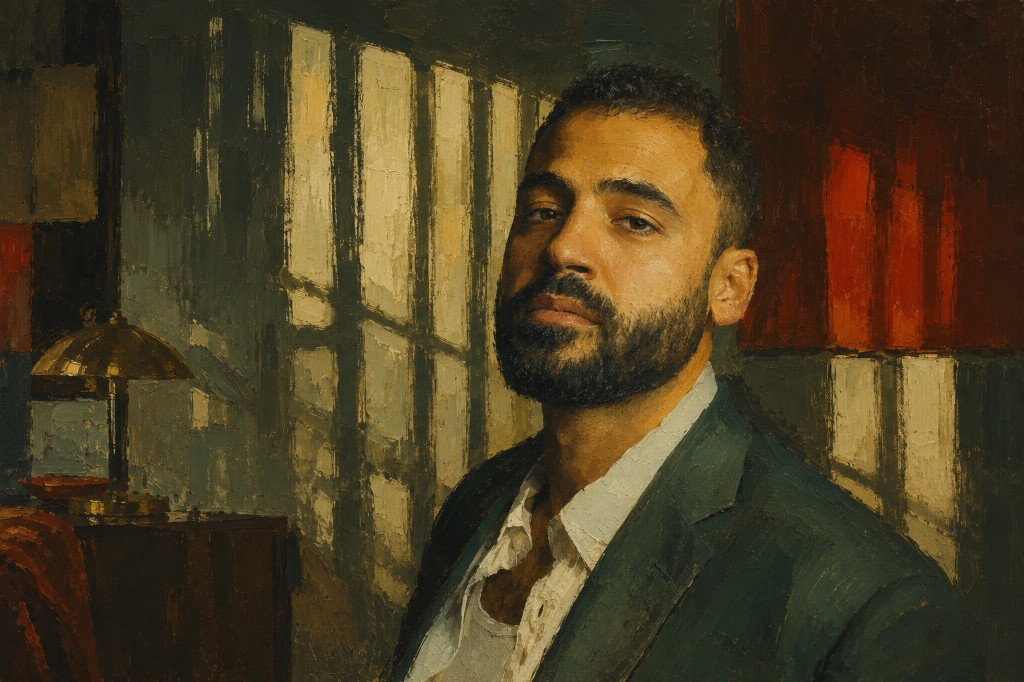
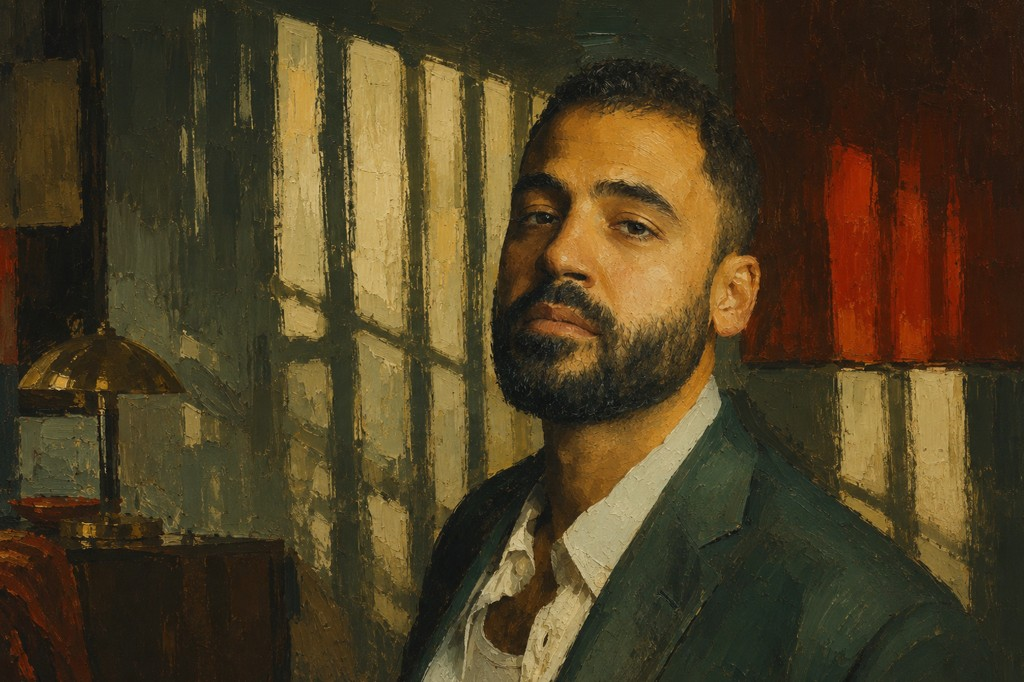
Polish mobile type, nav, and a lighter phone film grade.
Keeps desktop atmosphere while cutting iOS haze, and cleans up mobile chrome sizing and layout.

diff --git a/components/site/site-shell.tsx b/components/site/site-shell.tsx
@@ -101,7 +101,7 @@ export function SiteShell({ content }: { content: SiteContent }) {
           <button
             type="button"
             onClick={close}
-            className="text-ink hover:text-canvas block text-left text-[1.28rem] font-bold tracking-[0.4em] transition-colors duration-500"
+            className="text-ink hover:text-canvas block text-left text-[1.45rem] font-bold tracking-[0.4em] transition-colors duration-500"
           >
             {content.brand.name}
           </button>
@@ -131,12 +131,12 @@ export function SiteShell({ content }: { content: SiteContent }) {
                     className="pointer-events-auto group inline-flex items-center justify-start gap-2.5 text-[0.88rem] tracking-[0.24em] transition-colors duration-500"
                   >
                     <span className="whitespace-nowrap">
-                      <span className={isActive ? "text-canvas font-bold" : "text-canvas/75"}>
+                      <span className={isActive ? "text-ember font-bold" : "text-canvas/75"}>
                         {section.number}
                       </span>{" "}
                       <span
                         className={
-                          isActive ? "text-ink font-semibold" : "text-ink/75 group-hover:text-ink"
+                          isActive ? "text-ember font-semibold" : "text-ink/75 group-hover:text-ink"
                         }
                       >
                         {section.label}
@@ -144,7 +144,7 @@ export function SiteShell({ content }: { content: SiteContent }) {
                     </span>
                     <span
                       aria-hidden
-                      className={`bg-canvas h-px transition-all duration-700 ease-out ${
+                      className={`bg-ember h-px transition-all duration-700 ease-out ${
                         isActive ? "w-5 opacity-90" : "w-0 opacity-0 group-hover:w-3.5 group-hover:opacity-70"
                       }`}
                     />
@@ -180,7 +180,7 @@ export function SiteShell({ content }: { content: SiteContent }) {
           )}
           {content.hero.attribution && (
             <p
-              className={`text-ember text-[0.74rem] tracking-[0.3em] ${
+              className={`text-ember text-[0.88rem] tracking-[0.3em] ${
                 content.hero.quote.trim() ? "mt-3" : ""
               }`}
             >
@@ -210,14 +210,14 @@ export function SiteShell({ content }: { content: SiteContent }) {
             <div className="mb-8 flex items-start gap-8">
               {rendered.portrait && (
                 <figure
-                  className={`pointer-events-none absolute top-24 left-0 z-10 w-[17.5rem] -translate-x-[calc(100%+0.35rem)] overflow-hidden rounded-md shadow-[0_24px_60px_rgba(0,0,0,0.55)] ${rise}`}
+                  className={`pointer-events-none absolute top-24 left-0 z-10 w-[17.5rem] -translate-x-[calc(100%+0.35rem)] overflow-hidden rounded-3xl ${rise}`}
                   style={hydrated ? { animationDelay: "160ms" } : undefined}
                 >
                   {/* eslint-disable-next-line @next/next/no-img-element */}
                   <img
                     src={rendered.portrait}
                     alt=""
-                    className="aspect-[3/4] h-auto w-full object-cover object-[62%_16%]"
+                    className="aspect-[3/4] h-auto w-full object-cover object-[62%_16%] contrast-[0.97] saturate-[0.97]"
                   />
                 </figure>
               )}
@@ -280,40 +280,43 @@ export function SiteShell({ content }: { content: SiteContent }) {
           <button
             type="button"
             onClick={close}
-            className="text-ink block text-left text-[1.05rem] font-bold tracking-[0.32em]"
+            className="text-ink block text-left text-[1.45rem] font-bold tracking-[0.28em]"
           >
             {content.brand.name}
           </button>
-          <p className="text-ember/90 mt-1.5 text-[0.8rem] tracking-[0.24em]">{content.brand.role}</p>
+          <p className="text-ember/90 mt-1.5 text-[0.95rem] tracking-[0.22em]">{content.brand.role}</p>
         </header>
       </div>
 
+      {/* Quote locked into the right silhouette band on the mirrored plate. */}
       <div
         aria-hidden={isOpen}
-        className="pointer-events-none fixed inset-x-0 z-20 px-5 md:hidden"
+        className="plate-type pointer-events-none fixed z-20 max-w-[11.5rem] text-right md:hidden"
         style={{
-          bottom: "calc(5.75rem + env(safe-area-inset-bottom))",
+          top: "42%",
+          right: "0.9rem",
+          left: "auto",
           opacity: isOpen ? 0 : 1,
           transform: isOpen ? "translate3d(0, 12px, 0)" : "none",
           transition: "opacity 500ms ease, transform 600ms cubic-bezier(0.22, 1, 0.36, 1)",
         }}
       >
-        <div className={`plate-type max-w-[28ch] ${rise}`} style={hydrated ? { animationDelay: "400ms" } : undefined}>
+        <div className={rise} style={hydrated ? { animationDelay: "400ms" } : undefined}>
           {content.hero.quote
             .split("\n")
             .map((line) => line.trim())
             .filter(Boolean)
             .map((line, index) => (
-              <p key={index} className="text-ink text-[0.95rem] leading-[1.65] tracking-[0.03em]">
+              <p key={index} className="text-ink text-[0.9rem] leading-[1.55] tracking-[0.03em]">
                 {line}
               </p>
             ))}
           {content.hero.quote.trim() && (
-            <span aria-hidden className="bg-canvas/70 mt-3 block h-px w-5" />
+            <span aria-hidden className="bg-canvas/70 mt-3 ml-auto block h-px w-5" />
           )}
           {content.hero.attribution && (
             <p
-              className={`text-ember text-[0.68rem] tracking-[0.28em] ${
+              className={`text-ember -translate-x-2.5 text-[0.82rem] tracking-[0.28em] ${
                 content.hero.quote.trim() ? "mt-2.5" : ""
               }`}
             >
@@ -323,31 +326,29 @@ export function SiteShell({ content }: { content: SiteContent }) {
         </div>
       </div>
 
+      {/* Stays visible over the section sheet so you can switch pages. */}
       <nav
-        className="pointer-events-none fixed inset-x-0 bottom-0 z-40 md:hidden"
+        className="pointer-events-none fixed inset-x-0 bottom-0 z-[80] md:hidden"
         style={{
-          paddingBottom: "max(0.75rem, env(safe-area-inset-bottom))",
-          opacity: isOpen ? 0 : 1,
-          transition: "opacity 400ms ease",
-          pointerEvents: isOpen ? "none" : "auto",
+          paddingBottom: "max(0.65rem, env(safe-area-inset-bottom))",
         }}
       >
-        <div className="from-void/90 via-void/55 pointer-events-none absolute inset-0 bg-gradient-to-t to-transparent" />
-        <ul className="relative flex items-stretch justify-between gap-1 px-3 pt-3">
+        <div className="from-void via-void/80 pointer-events-none absolute inset-0 bg-gradient-to-t to-transparent" />
+        <ul className="relative flex h-14 items-center justify-between px-2">
           {sections.map((section, index) => {
             const isActive = section.id === activeId;
             return (
-              <li key={section.id} className={`min-w-0 flex-1 ${rise}`} style={hydrated ? { animationDelay: `${280 + index * 80}ms` } : undefined}>
+              <li key={section.id} className={`flex h-full min-w-0 flex-1 ${rise}`} style={hydrated ? { animationDelay: `${280 + index * 80}ms` } : undefined}>
                 <button
                   type="button"
-                  onClick={() => open(section.id)}
+                  onClick={() => (isActive ? close() : open(section.id))}
                   aria-current={isActive ? "true" : undefined}
-                  className="pointer-events-auto flex min-h-11 w-full flex-col items-center justify-center gap-0.5 px-1 py-2 tracking-[0.18em]"
+                  className="pointer-events-auto flex h-full w-full flex-col items-center justify-center gap-1 px-1 tracking-[0.16em]"
                 >
-                  <span className={`text-[0.65rem] font-bold ${isActive ? "text-canvas" : "text-canvas/80"}`}>
+                  <span className={`text-[0.95rem] leading-none font-bold ${isActive ? "text-ember" : "text-canvas/85"}`}>
                     {section.number}
                   </span>
-                  <span className={`text-[0.72rem] font-semibold ${isActive ? "text-ink" : "text-ink/80"}`}>
+                  <span className={`text-[1.02rem] leading-none font-semibold ${isActive ? "text-ember" : "text-ink/85"}`}>
                     {section.label}
                   </span>
                 </button>
@@ -357,10 +358,10 @@ export function SiteShell({ content }: { content: SiteContent }) {
         </ul>
       </nav>
 
-      {/* Mobile section sheet — full bleed, slides up. */}
+      {/* Mobile section sheet — full bleed, slides up; leaves room for bottom nav. */}
       <section
         aria-hidden={!isOpen}
-        className="fixed inset-0 z-50 flex flex-col md:hidden"
+        className="fixed inset-0 z-[70] flex flex-col md:hidden"
         style={{
           opacity: isOpen ? 1 : 0,
           pointerEvents: isOpen ? "auto" : "none",
@@ -373,7 +374,10 @@ export function SiteShell({ content }: { content: SiteContent }) {
         {rendered && (
           <article
             key={`mob-${rendered.id}`}
-            className="relative flex min-h-0 flex-1 flex-col px-5 pt-[max(1rem,env(safe-area-inset-top))] pb-[max(1rem,env(safe-area-inset-bottom))]"
+            className="relative flex min-h-0 flex-1 flex-col px-5 pt-[max(1rem,env(safe-area-inset-top))]"
+            style={{
+              paddingBottom: "calc(5.25rem + env(safe-area-inset-bottom))",
+            }}
           >
             <header className="flex shrink-0 items-start justify-between gap-4 pb-4">
               <div>
@@ -386,24 +390,24 @@ export function SiteShell({ content }: { content: SiteContent }) {
               <button
                 type="button"
                 onClick={close}
-                className="text-ink-dim hover:text-ink -mr-1 min-h-11 min-w-11 px-2 text-[0.7rem] tracking-[0.22em]"
+                className="text-ink-dim hover:text-ink -mr-1 min-h-11 min-w-11 px-2 text-[0.95rem] tracking-[0.2em]"
               >
                 close
               </button>
             </header>
 
             <div className={`scroll-quiet ${rise} min-h-0 flex-1 overflow-x-hidden overflow-y-auto pb-6`}>
+              <ScriptBody text={rendered.script} />
               {rendered.portrait && (
-                <figure className="mb-6 w-[9.5rem] overflow-hidden rounded-md shadow-[0_16px_40px_rgba(0,0,0,0.45)]">
+                <figure className="mt-8 w-full max-w-[48ch] overflow-hidden rounded-3xl">
                   {/* eslint-disable-next-line @next/next/no-img-element */}
                   <img
                     src={rendered.portrait}
                     alt=""
-                    className="aspect-[3/4] h-auto w-full object-cover object-[62%_16%]"
+                    className="aspect-[16/10] h-auto w-full object-cover object-center contrast-[0.97] saturate-[0.97]"
                   />
                 </figure>
               )}
-              <ScriptBody text={rendered.script} />
             </div>
           </article>
         )}

diff --git a/components/grade/film-grade.tsx b/components/grade/film-grade.tsx
@@ -28,8 +28,22 @@ function useGrade() {
   return useSyncExternalStore(subscribeGrade, getGrade, getGrade);
 }
 
+/** Phones can't take the desktop bloom/softness stack — it turns type to mush. */
+function useIsMobileViewport() {
+  const [mobile, setMobile] = useState(false);
+  useEffect(() => {
+    const mq = window.matchMedia("(max-width: 767px)");
+    const sync = () => setMobile(mq.matches);
+    sync();
+    mq.addEventListener("change", sync);
+    return () => mq.removeEventListener("change", sync);
+  }, []);
+  return mobile;
+}
+
 export function FilmGrade({ children }: FilmGradeProps) {
   const grade = useGrade();
+  const isMobile = useIsMobileViewport();
   const reactId = useId().replace(/:/g, "");
   const filterId = `film-grade-${reactId}`;
   const [booted, setBooted] = useState(false);
@@ -39,22 +53,36 @@ export function FilmGrade({ children }: FilmGradeProps) {
     setBooted(true);
   }, []);
 
+  // Desktop look unchanged. Real phones (esp. iOS WebKit) amplify the same
+  // softness + backdrop bloom into heavy milk vs laptop Chrome — keep both,
+  // but much lighter so type and plate stay readable.
+  const look = useMemo<GradeSettings>(() => {
+    if (!isMobile) return grade;
+    return {
+      ...grade,
+      softness: grade.softness * 0.35,
+      bloom: grade.bloom * 0.22,
+      bloomRadius: Math.max(2, grade.bloomRadius * 0.22),
+      chromaticAberration: grade.chromaticAberration * 0.6,
+    };
+  }, [grade, isMobile]);
+
   const baseCurve = useMemo(
-    () => curveTable(grade.shadow, grade.midtone, grade.highlight),
-    [grade.shadow, grade.midtone, grade.highlight],
+    () => curveTable(look.shadow, look.midtone, look.highlight),
+    [look.shadow, look.midtone, look.highlight],
   );
 
   const curves = useMemo(() => {
-    const strength = grade.lutStrength;
+    const strength = look.lutStrength;
     return {
-      r: mixCurves(baseCurve, grade.lutCurves?.r, strength),
-      g: mixCurves(baseCurve, grade.lutCurves?.g, strength),
-      b: mixCurves(baseCurve, grade.lutCurves?.b, strength),
+      r: mixCurves(baseCurve, look.lutCurves?.r, strength),
+      g: mixCurves(baseCurve, look.lutCurves?.g, strength),
+      b: mixCurves(baseCurve, look.lutCurves?.b, strength),
     };
-  }, [baseCurve, grade.lutCurves, grade.lutStrength]);
+  }, [baseCurve, look.lutCurves, look.lutStrength]);
 
-  const cssFilter = useMemo(() => buildCssFilter(grade, filterId), [grade, filterId]);
-  const ca = Math.max(0, grade.chromaticAberration);
+  const cssFilter = useMemo(() => buildCssFilter(look, filterId), [look, filterId]);
+  const ca = Math.max(0, look.chromaticAberration);
 
   return (
     <div className="relative h-full w-full overflow-hidden">
@@ -109,7 +137,7 @@ export function FilmGrade({ children }: FilmGradeProps) {
             <feColorMatrix
               in="curved"
               type="matrix"
-              values={`1 0 0 0 ${grade.fade * 0.22}  0 1 0 0 ${grade.fade * 0.2}  0 0 1 0 ${grade.fade * 0.18}  0 0 0 1 0`}
+              values={`1 0 0 0 ${look.fade * 0.22}  0 1 0 0 ${look.fade * 0.2}  0 0 1 0 ${look.fade * 0.18}  0 0 0 1 0`}
               result="faded"
             />
 
@@ -117,34 +145,34 @@ export function FilmGrade({ children }: FilmGradeProps) {
             <feColorMatrix
               in="faded"
               type="matrix"
-              values={`1 ${grade.temperature * 0.18} ${grade.temperature * 0.06} 0 0  0 1 0 0 0  ${-grade.temperature * 0.16} ${-grade.temperature * 0.04} 1 0 0  0 0 0 1 0`}
+              values={`1 ${look.temperature * 0.18} ${look.temperature * 0.06} 0 0  0 1 0 0 0  ${-look.temperature * 0.16} ${-look.temperature * 0.04} 1 0 0  0 0 0 1 0`}
             />
           </filter>
         </defs>
       </svg>
 
-      {/* Optical layers — always full-bleed, above graded content, below UI. */}
+      {/* Optical layers — above graded content, below UI. */}
       <div className="pointer-events-none absolute inset-0 z-[60] overflow-hidden">
-        {booted && <GrainOverlay grade={grade} />}
-        {grade.bloom > 0.001 && (
+        {booted && <GrainOverlay grade={look} />}
+        {look.bloom > 0.001 && (
           <div
             aria-hidden
             className="absolute inset-0"
             style={{
-              backdropFilter: `blur(${grade.bloomRadius}px) brightness(${1 + grade.bloom * 0.55}) saturate(${1 + grade.bloom * 0.15})`,
-              WebkitBackdropFilter: `blur(${grade.bloomRadius}px) brightness(${1 + grade.bloom * 0.55}) saturate(${1 + grade.bloom * 0.15})`,
-              mixBlendMode: grade.bloomBlend,
-              opacity: Math.min(1, 0.15 + grade.bloom * 0.85),
+              backdropFilter: `blur(${look.bloomRadius}px) brightness(${1 + look.bloom * 0.55}) saturate(${1 + look.bloom * 0.15})`,
+              WebkitBackdropFilter: `blur(${look.bloomRadius}px) brightness(${1 + look.bloom * 0.55}) saturate(${1 + look.bloom * 0.15})`,
+              mixBlendMode: look.bloomBlend,
+              opacity: Math.min(1, 0.15 + look.bloom * 0.85),
             }}
           />
         )}
-        {grade.vignette > 0.001 && (
+        {look.vignette > 0.001 && (
           <div
             aria-hidden
             className="absolute inset-0"
             style={{
-              background: `radial-gradient(ellipse at center, transparent ${Math.max(18, 55 - grade.vignette * 28)}%, rgba(12,14,10,${0.35 + grade.vignette * 0.65}) 100%)`,
-              opacity: Math.min(1, 0.35 + grade.vignette * 0.65),
+              background: `radial-gradient(ellipse at center, transparent ${Math.max(18, 55 - look.vignette * 28)}%, rgba(12,14,10,${0.35 + look.vignette * 0.65}) 100%)`,
+              opacity: Math.min(1, 0.35 + look.vignette * 0.65),
             }}
           />
         )}

diff --git a/components/site/script-body.tsx b/components/site/script-body.tsx
@@ -7,7 +7,7 @@ const URL_ONLY = /^https?:\/\/\S+$/i;
 const EMAIL_ONLY = /^[a-z0-9._%+-]+@[a-z0-9.-]+\.[a-z]{2,}$/i;
 
 const linkClass =
-  "text-canvas decoration-canvas/40 hover:text-ember hover:decoration-ember font-semibold underline underline-offset-4 transition-colors duration-300";
+  "text-ember decoration-ember/45 hover:text-canvas hover:decoration-canvas/50 font-semibold underline underline-offset-4 transition-colors duration-300";
 
 function externalLink(href: string, children: ReactNode, key?: string | number) {
   const isEmail = href.startsWith("mailto:") || EMAIL_ONLY.test(href);
@@ -61,13 +61,16 @@ export function ScriptBody({ text }: { text: string }) {
           case "action": {
             // Closing asides (e.g. writing availability) sit apart from body copy.
             const isAside = /pages available on request/i.test(block.text);
+            if (isAside) {
+              return (
+                <div key={index} className="mt-2 mb-3.5 max-w-[48ch]">
+                  <span aria-hidden className="bg-canvas/70 mb-4 block h-px w-8" />
+                  <p className="text-ember/85 font-semibold">{linkify(block.text)}</p>
+                </div>
+              );
+            }
             return (
-              <p
-                key={index}
-                className={`mb-3.5 max-w-[48ch] font-semibold ${
-                  isAside ? "text-ember/85 mt-2" : "text-ink"
-                }`}
-              >
+              <p key={index} className="text-ink mb-3.5 max-w-[48ch] font-semibold">
                 {linkify(block.text)}
               </p>
             );
@@ -144,8 +147,15 @@ export function ScriptBody({ text }: { text: string }) {
             );
           }
 
-          case "beat":
-            return <div key={index} aria-hidden className="h-4" />;
+          case "beat": {
+            // Hairline before link/credit lists; plain gap elsewhere.
+            const beforeList = blocks[index + 1]?.kind === "entry";
+            return beforeList ? (
+              <div key={index} aria-hidden className="border-canvas/55 my-5 w-8 border-t" />
+            ) : (
+              <div key={index} aria-hidden className="h-4" />
+            );
+          }
         }
       })}
     </div>
